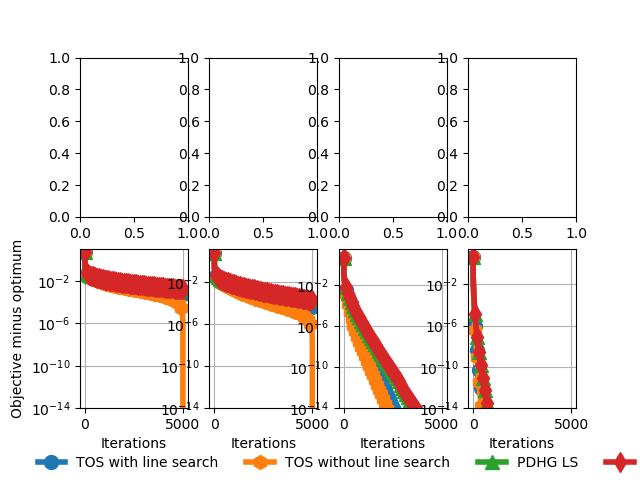
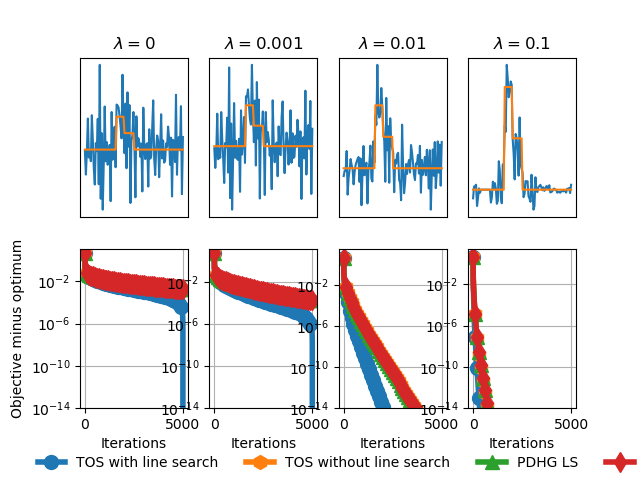
update doc

diff --git a/searchindex.js b/searchindex.js
@@ -1,1 +1,1 @@
-Search.setIndex({docnames:["auto_examples/index","auto_examples/plot_accelerated","auto_examples/plot_group_lasso","auto_examples/plot_overlapping_group_lasso","auto_examples/plot_sparse_nuclear_norm","auto_examples/plot_tv_deblurring","datasets","generated/copt.datasets.load_covtype","generated/copt.datasets.load_img1","generated/copt.datasets.load_rcv1","generated/copt.datasets.load_url","generated/copt.minimize_APGD","generated/copt.minimize_PGD","generated/copt.minimize_SAGALP_L1","generated/copt.minimize_TOS","generated/copt.utils.LogLoss","generated/copt.utils.SquareLoss","gradient","incremental","index","loss_functions","notes"],envversion:53,filenames:["auto_examples/index.rst","auto_examples/plot_accelerated.rst","auto_examples/plot_group_lasso.rst","auto_examples/plot_overlapping_group_lasso.rst","auto_examples/plot_sparse_nuclear_norm.rst","auto_examples/plot_tv_deblurring.rst","datasets.rst","generated/copt.datasets.load_covtype.rst","generated/copt.datasets.load_img1.rst","generated/copt.datasets.load_rcv1.rst","generated/copt.datasets.load_url.rst","generated/copt.minimize_APGD.rst","generated/copt.minimize_PGD.rst","generated/copt.minimize_SAGALP_L1.rst","generated/copt.minimize_TOS.rst","generated/copt.utils.LogLoss.rst","generated/copt.utils.SquareLoss.rst","gradient.rst","incremental.rst","index.rst","loss_functions.rst","notes.rst"],objects:{"copt.datasets":{load_covtype:[7,0,1,""],load_img1:[8,0,1,""],load_rcv1:[9,0,1,""],load_url:[10,0,1,""]},"copt.utils":{LogLoss:[15,1,1,""],SquareLoss:[16,1,1,""]},"copt.utils.LogLoss":{__init__:[15,2,1,""]},"copt.utils.SquareLoss":{__init__:[16,2,1,""]},copt:{minimize_APGD:[11,0,1,""],minimize_PGD:[12,0,1,""],minimize_SAGALP_L1:[13,0,1,""],minimize_TOS:[14,0,1,""]}},objnames:{"0":["py","function","Python function"],"1":["py","class","Python class"],"2":["py","method","Python method"]},objtypes:{"0":"py:function","1":"py:class","2":"py:method"},terms:{"35th":14,"boolean":[11,12,13,14],"break":13,"class":[15,16],"float":[5,11,12,13,14],"function":[1,2,11,12,13,14,15,21],"import":[1,2,3,4,5,11,12,13,14],"int":[4,11,12,13,14],"return":[2,3,4,5,7,9,10,11,12,13,14],"true":[2,3,4,5,9,10,11,12,13,14],But:21,TOS:[3,4,5],The:[2,11,12,13,14,21],These:19,__doc__:4,__init__:[15,16],a_i:13,abs:[4,5,14],acceler:[0,11,19],access:[11,12],achiev:[2,3,4],adapt:14,advanc:13,algorithm:[11,12,13,14],all:0,all_beta:[2,3,4,5],all_trace_l:[2,3,4,5],all_trace_ls_tim:[2,3,4,5],all_trace_nol:[2,3,4,5],all_trace_nols_tim:[2,3,4,5],all_trace_pdhg:[2,3,4,5],all_trace_pdhg_nol:[2,3,4],all_trace_pdhg_nols_tim:[2,3,4],all_trace_pdhg_tim:[2,3,4,5],allow:21,alpha:[11,13,14,15,16],alreadi:20,also:21,amir:[11,12],analysi:14,append:[2,3,4,5],applic:[11,12,14],arang:[2,3],arg:14,argmin_:13,argument:14,arrai:[1,2,3,4,5,7,9,10,11,12,13,14],art:19,arxiv:14,astyp:[4,5],attribut:[11,12,13,14],augment:13,auto_examples_jupyt:0,auto_examples_python:0,averag:13,axi:5,b_i:13,backtrack:[11,12,14],backtracking_factor:[11,12,14],barrier:13,base:[11,12,19],bbox_to_anchor:[2,3,4,5],beck:[11,12],below:13,beta:[2,3,4,5,13],binari:[7,9,10],blck:4,block:4,blur:5,blur_matrix:5,bold:1,bool:[7,9,10,13],bottom:[2,3,4,5],callabl:[11,12,14],callback:[1,2,3,4,5,11,12,13,14],can:[13,14,21],categor:[19,21],caus:[11,12,13,14],cb_apgd:1,cb_pdhg:[3,5],cb_pdhg_nol:3,cb_pgd:1,cb_to:[2,3,4],cb_tosl:[2,3,4,5],check:[7,9,10],cjlin:[7,9,10],classif:[7,9,10],cmap:[4,5],code:[0,1,2,3,4,5],commun:[11,12],comparison:[1,2,3,5],composit:13,comput:[2,3,4,5,15,21],confer:14,construct:[1,2],contain:19,conveni:20,converg:[1,13],convex:[11,12],copi:3,copt:[1,2,3,4,5],cov:4,criterion:13,csie:[7,9,10],csr:[7,9,10],damek:14,data:[2,3,4,5,13],dataset:[1,3],davi:14,debug:13,def:[2,3,4,5],defin:20,densiti:2,depend:19,deploy:19,descent:[0,11,12,19],describ:[11,12,13,14],descript:[11,12,13,14],diff:5,differ:[2,3,4,5,19],differenti:11,doi:14,dot:[2,3,4,5],download:[0,1,2,3,4,5,7,9,10],dual:21,each:[11,12,14],easi:19,edg:19,edu:[7,9,10],effect:0,emphasi:19,enter:2,enumer:[2,3,4,5],epsilon:4,estim:[0,13,14],evalu:1,exit:[11,12,13,14],expect:19,express:21,extens:21,extra:[13,14],eye:4,f_deriv:13,f_grad:[2,5,11,12,14],f_prime:14,fabian:[13,14],face:5,fals:[1,2,3,4,5],featur:[2,4,5],fenchel:21,few:19,fig:[2,3],figlegend:[2,3,4,5],file:[7,9,10],finit:21,flag:[11,12,13,14],fmin:[1,2,3,4,5],follow:20,fontweight:1,form:[11,12,13,14],formula:21,found:[7,9,10],frameon:[2,3,4,5],from:[2,3,4,5,11,12,13,14],full:[1,9],fun:14,fun_deriv:14,func_grad:[1,2,3,4,5],g_prox:[5,11,12,14],g_prox_arg:14,galleri:[0,1,2,3,4,5],gaussian_filt:5,gauthier:14,gcf:[2,3,4,5],gener:[0,1,2,3,4,5,13,19],get_lipschitz:[1,2,3,4,5],gidel:14,given:13,gradient:[0,3,5,11,12,13,14,19],grai:5,gray_r:4,grid:[1,2,3,4,5],ground:2,ground_truth:[2,3],group:0,groupl1:[2,3],groups1:3,groups2:3,guess:[11,12,14],h_lipschitz:[3,4,5,14],h_prox:[5,14],has:21,have:[11,12,13],hing:21,howev:20,html:[7,9,10],http:[7,9,10,14],huberloss:4,ident:15,imag:[5,8],img:5,implement:[2,19],improv:1,imres:5,imshow:[4,5],increment:19,indic:[11,12,13,14],inform:13,initi:[11,12,14],intern:14,interpol:[4,5],ipynb:[1,2,3,4,5],iter:[2,3,4,5,11,12,14],its:[2,14,19],julien:13,jupyt:[0,1,2,3,4,5],known:14,l1norm:4,label:[1,7,9,10],lacost:13,lambda:[2,3,4,5],languag:21,larg:19,lasso:0,learn:14,least:3,leblond:13,legend:1,len:4,level:[11,12,13,14],librari:19,libsvm:[7,9,10],libsvmtool:[7,9,10],like:[11,12,14],linalg:[2,3,4,5],line:[2,3,4,5,11,12,14],line_search:[1,2,3,4,11,12,14],load:8,load_npz:5,loc:[2,3,4,5],log:[1,2,3,4,5],logist:[1,15,21],logloss:1,loss:[2,3,4,5,11,13,15,21],low:0,machin:14,map:13,marc:[11,12],marker:[2,3,4,5],markers:[2,3,4,5],markeveri:[2,3,4,5],mathemat:19,matrix:[0,7,9,10],max:5,max_it:[2,3,4,5,11,12,13,14],max_iter_backtrack:[11,12,14],maximum:[11,12,13,14],maxit:[2,4,5],md5:[7,9,10],md5_check:[7,9,10],member:13,messag:[11,12,13,14],method:[13,14,15,16,19],might:13,min:[1,2,3,4,5],minimize_apgd:1,minimize_pdhg:[3,5],minimize_pgd:[1,2],minimize_to:[3,4,5],minimize_x:[11,12,14],minu:[2,3,4,5],minut:[1,2,3,4,5],misc:5,modular:19,much:[],multipli:4,multivariate_norm:4,n_col:[5,8],n_featur:[1,2,3,4,5],n_row:[5,8],n_sampl:[1,2,3,4,5,13],ncol:[2,3,4,5],ndarrai:13,ndimag:5,nearest:[4,5],neural:13,nip:13,noisi:5,non:14,none:[2,3,4,5,11,12,13,14],nonsmooth:13,nonzero:2,norm:13,notebook:[0,1,2,3,4,5],npz:5,ntu:[7,9,10],nuclearnorm:4,number:[11,12,13,14],numer:15,numpi:[1,2,3,4,5,7,9,10],object:[2,3,4,5,11,12,13,14],onli:[7,9,10],oper:[2,11,12,14,19],opt:[13,19],optim:[1,2,11,12,13,14],optimizeresult:[11,12,13,14],optimum:[2,3,4,5],option:[11,12,13,14],org:14,other:[11,12,13,14],out:[2,3,4,5],out_img:[2,3,4,5],output:[11,12,14],overlap:0,own:20,parallel:13,paramet:[2,3,4,5,7,9,10,11,12,13,14],pass:[13,14],pdhg:[3,5],pdhg_nol:[3,5],pedregosa:[13,14],penalti:[11,12],perform:[11,12,14,19],pgd:2,pgd_l:2,plot:[1,2,3,4,5,13],plot_acceler:1,plot_group_lasso:2,plot_nol:[2,3,4],plot_overlapping_group_lasso:3,plot_pdhg:[2,3,5],plot_pdhg_nol:[2,3],plot_sparse_nuclear_norm:4,plot_to:[2,3,4,5],plot_tv_deblur:5,plt:[1,2,3,4,5],point:13,possibl:[14,20],preprint:[],print:[2,3,4,5,13],problem:[1,2,11,12,13,14],procedur:[11,12,14],proceed:14,process:[11,12,13],progress:19,project:[7,9,10],prox:[2,3,4],prox_tv1d_col:5,prox_tv1d_row:5,proxim:[2,11,12,14,19,21],pure:19,purpos:19,pylab:[1,2,3,4,5],python:[0,1,2,3,4,5,19],rand:[1,2,4],randn:[1,2,3,4,5],random:[1,2,3,4,5],rang:[2,3,4],rank:0,ravel:[4,5],rcv1:9,readi:20,recoveri:[11,12],refer:[11,12,13,14],regress:1,regular:[0,3,4],rel:[2,3,4],remi:13,repres:[11,12,13,14],res:[11,12,14],reshap:[4,5],result:[1,2,3,4,5,11,12,13,14],result_apgd:1,result_pgd:1,return_singular_vector:[2,3,4,5],rough:19,run:[1,2,3,4,5],s11228:14,saga:[13,19],sampl:8,scalabl:13,scale:[2,3,5,19],scatterpoint:[2,3,4,5],scheme:14,scipi:[2,3,4,5,7,9,10,11,12,13,14],script:[1,2,3,4,5],search:[2,3,4,5,11,12,14],second:[1,2,3,4,5],see:[11,12,13,14],seed:[1,2,3,4,5],set:14,set_titl:[2,3,4,5],set_xlabel:[2,3,4,5],set_xlim:[4,5],set_xtick:[2,3,4,5],set_ylabel:[2,3,4,5],set_ylim:[2,3,4,5],set_yscal:[2,3,4,5],set_ytick:[2,3,4,5],shape:[4,5],sharei:[2,3,4,5],show:[1,2,3,4,5],showcas:1,sigma:[2,3,4],sigma_2:4,sigma_hat:4,sigmoid:15,signal:[11,12],simon:13,size:[2,3,4,5,13,14],sklearn:3,smooth:[14,20,21],solut:[11,12,13,14],solv:[11,12,13,14],solver:[2,3,4,5],some:[2,3,4,13,19],sourc:[0,1,2,3,4,5,7,8,9,10,11,12,13,14,15,16],spars:[0,2,3,5,7,9,10],sphinx:[0,1,2,3,4,5],splinalg:[2,3,4,5],split:[14,19],sqrt:3,squar:[2,3,4,5],squareloss:[2,3,5],stabl:15,start:[11,12,13,14],state:19,step:[2,3,4,5,13,14],step_siz:[1,2,3,4,5,11,12,13,14],step_size2:[3,5],stochast:13,stop:13,suboptim:1,subplot:[2,3,4,5],subplots_adjust:[2,3,4,5],subset:9,success:[11,12,13,14],successfulli:[11,12,13,14],sum:[5,21],sum_:13,svd:[2,3,4,5],symbol:21,synthet:4,system:13,take:[7,9,10],teboul:[11,12],term:12,termin:[11,12,13,14],thi:[7,9,10,13,14,19],three:[14,19],threshold:4,through:[2,13],time:[1,2,3,4,5],titl:1,tmp1:5,tmp2:5,tol:[1,2,3,4,5,11,12,13,14],toler:[2,3,4,13],tos:[3,4],tos_l:[3,4,5],total:[0,1,2,3,4],trace:[1,2,3,4,5,13],trace_func:13,trace_func_apgd:1,trace_func_pgd:1,trace_l:[2,3,4,5],trace_nol:[2,3,4],trace_pdhg:[3,5],trace_pdhg_nol:3,trace_tim:[2,3,4,5,13],trace_x:[1,2,3,4,5],truth:2,tv_prox:5,type:[11,12,13,14],url:[7,10],use:[15,20],useful:13,util:[1,2,3,4,5],valu:[2,3,4,5,7,9,10,11,12,14],variant:[13,19],variat:[0,14],vector:2,verbos:[2,3,4,5,11,12,13,14],version:[7,9,10],whenev:13,where:[11,12,14,15],whether:[7,9,10,11,12,13,14],which:[2,11,12,13,14,21],without:[2,3,4,5],work:19,wotao:14,written:19,www:[7,9,10],xlabel:1,xlim:[1,2,3,4,5],xxx:[11,12],yet:[],yin:14,ylabel:1,ylim:1,ymin:1,your:20,yscale:1,zero:[1,2,3,4,5],zip:0},titles:["Examples","Effect of acceleration in gradient descent","Group Lasso regularization","Group lasso with overlap","Estimating a sparse and low rank matrix","Total variation regularization","Datasets","copt.datasets.load_covtype","copt.datasets.load_img1","copt.datasets.load_rcv1","copt.datasets.load_url","copt.minimize_APGD","copt.minimize_PGD","copt.minimize_SAGALP_L1","copt.minimize_TOS","copt.utils.LogLoss","copt.utils.SquareLoss","Gradient-based methods","Incremental methods","Welcome to copt!","Loss functions","&lt;no title&gt;"],titleterms:{"function":20,acceler:1,algorithm:19,base:17,copt:[7,8,9,10,11,12,13,14,15,16,19],dataset:[6,7,8,9,10],descent:1,effect:1,estim:4,exampl:0,gradient:[1,17],group:[2,3],increment:18,lasso:[2,3],load_covtyp:7,load_img1:8,load_rcv1:9,load_url:10,logloss:15,loss:20,low:4,matrix:4,method:[17,18],minimize_apgd:11,minimize_pgd:12,minimize_sagalp_l1:13,minimize_to:14,optim:19,overlap:3,philosophi:19,rank:4,regular:[2,5],spars:4,squareloss:16,total:5,util:[15,16],variat:5,welcom:19}})
+Search.setIndex({docnames:["auto_examples/index","auto_examples/plot_accelerated","auto_examples/plot_group_lasso","auto_examples/plot_overlapping_group_lasso","auto_examples/plot_sparse_nuclear_norm","auto_examples/plot_tv_deblurring","datasets","generated/copt.datasets.load_covtype","generated/copt.datasets.load_img1","generated/copt.datasets.load_rcv1","generated/copt.datasets.load_url","generated/copt.minimize_APGD","generated/copt.minimize_PGD","generated/copt.minimize_SAGALP_L1","generated/copt.minimize_TOS","generated/copt.utils.LogLoss","generated/copt.utils.SquareLoss","gradient","incremental","index","loss_functions","notes"],envversion:53,filenames:["auto_examples/index.rst","auto_examples/plot_accelerated.rst","auto_examples/plot_group_lasso.rst","auto_examples/plot_overlapping_group_lasso.rst","auto_examples/plot_sparse_nuclear_norm.rst","auto_examples/plot_tv_deblurring.rst","datasets.rst","generated/copt.datasets.load_covtype.rst","generated/copt.datasets.load_img1.rst","generated/copt.datasets.load_rcv1.rst","generated/copt.datasets.load_url.rst","generated/copt.minimize_APGD.rst","generated/copt.minimize_PGD.rst","generated/copt.minimize_SAGALP_L1.rst","generated/copt.minimize_TOS.rst","generated/copt.utils.LogLoss.rst","generated/copt.utils.SquareLoss.rst","gradient.rst","incremental.rst","index.rst","loss_functions.rst","notes.rst"],objects:{"copt.datasets":{load_covtype:[7,0,1,""],load_img1:[8,0,1,""],load_rcv1:[9,0,1,""],load_url:[10,0,1,""]},"copt.utils":{LogLoss:[15,1,1,""],SquareLoss:[16,1,1,""]},"copt.utils.LogLoss":{__init__:[15,2,1,""]},"copt.utils.SquareLoss":{__init__:[16,2,1,""]},copt:{minimize_APGD:[11,0,1,""],minimize_PGD:[12,0,1,""],minimize_SAGALP_L1:[13,0,1,""],minimize_TOS:[14,0,1,""]}},objnames:{"0":["py","function","Python function"],"1":["py","class","Python class"],"2":["py","method","Python method"]},objtypes:{"0":"py:function","1":"py:class","2":"py:method"},terms:{"35th":14,"boolean":[11,12,13,14],"break":13,"class":[15,16],"float":[5,11,12,13,14],"function":[1,2,11,12,13,14,15,21],"import":[1,2,3,4,5,11,12,13,14],"int":[4,11,12,13,14],"return":[2,3,4,5,7,9,10,11,12,13,14],"true":[2,3,4,5,9,10,11,12,13,14],But:21,TOS:[3,4,5],The:[2,11,12,13,14,21],These:19,__doc__:4,__init__:[15,16],a_i:13,abs:[4,5],acceler:[0,11,19],access:[11,12],achiev:[2,3,4],adapt:14,advanc:13,algorithm:[11,12,13,14],all:0,all_beta:[2,3,4,5],all_trace_l:[2,3,4,5],all_trace_ls_tim:[2,3,4,5],all_trace_nol:[2,3,4,5],all_trace_nols_tim:[2,3,4,5],all_trace_pdhg:[2,3,4,5],all_trace_pdhg_nol:[2,3,4],all_trace_pdhg_nols_tim:[2,3,4],all_trace_pdhg_tim:[2,3,4,5],allow:21,alpha:[11,13,14,15,16],alreadi:20,also:21,amir:[11,12],analysi:14,append:[2,3,4,5],applic:[11,12,14],arang:[2,3],arg:14,argmin_:13,argument:14,arrai:[1,2,3,4,5,7,9,10,11,12,13,14],art:19,arxiv:[],astyp:[4,5],attribut:[11,12,13,14],augment:13,auto_examples_jupyt:0,auto_examples_python:0,averag:13,axi:5,b_i:13,backtrack:[11,12,14],backtracking_factor:[11,12,14],barrier:13,base:[11,12,19],bbox_to_anchor:[2,3,4,5],beck:[11,12],below:13,beta:[2,3,4,5,13],binari:[7,9,10],blck:4,block:4,blur:5,blur_matrix:5,bold:1,bool:[7,9,10,13],bottom:[2,3,4,5],callabl:[11,12,14],callback:[1,2,3,4,5,11,12,13,14],can:[13,14,21],categor:[19,21],caus:[11,12,13,14],cb_apgd:1,cb_pdhg:[3,5],cb_pdhg_nol:3,cb_pgd:1,cb_to:[2,3,4],cb_tosl:[2,3,4,5],check:[7,9,10],cjlin:[7,9,10],classif:[7,9,10],cmap:[4,5],code:[0,1,2,3,4,5],commun:[11,12],comparison:[1,2,3,5],composit:13,comput:[2,3,4,5,15,21],confer:14,construct:[1,2],contain:19,conveni:20,converg:[1,13],convex:[11,12],copi:3,copt:[1,2,3,4,5],cov:4,criterion:13,csie:[7,9,10],csr:[7,9,10],damek:14,data:[2,3,4,5,13],dataset:[1,3],davi:14,debug:13,def:[2,3,4,5],defin:20,densiti:2,depend:19,deploy:19,descent:[0,11,12,19],describ:[11,12,13,14],descript:[11,12,13,14],diff:5,differ:[2,3,4,5,19],differenti:11,doi:[],dot:[2,3,4,5],download:[0,1,2,3,4,5,7,9,10],dual:21,each:[11,12,14],easi:19,edg:19,edu:[7,9,10],effect:0,emphasi:19,enter:2,enumer:[2,3,4,5],epsilon:4,estim:[0,13,14],evalu:1,exit:[11,12,13,14],expect:19,express:21,extens:21,extra:[13,14],eye:4,f_deriv:13,f_grad:[2,5,11,12,14],f_prime:14,fabian:[13,14],face:5,fals:[1,2,3,4,5],featur:[2,4,5],fenchel:21,few:19,fig:[2,3],figlegend:[2,3,4,5],file:[7,9,10],finit:21,flag:[11,12,13,14],fmin:[1,2,3,4,5],follow:20,fontweight:1,form:[11,12,13,14],formula:21,found:[7,9,10],frameon:[2,3,4,5],from:[2,3,4,5,11,12,13,14],full:[1,9],fun:14,fun_deriv:14,func_grad:[1,2,3,4,5],g_prox:[5,11,12,14],g_prox_arg:14,galleri:[0,1,2,3,4,5],gaussian_filt:5,gauthier:14,gcf:[2,3,4,5],gener:[0,1,2,3,4,5,13,19],get_lipschitz:[1,2,3,4,5],gidel:14,given:13,gradient:[0,3,5,11,12,13,14,19],grai:5,gray_r:4,grid:[1,2,3,4,5],ground:2,ground_truth:[2,3],group:0,groupl1:[2,3],groups1:3,groups2:3,guess:[11,12,14],h_lipschitz:[3,4,5,14],h_prox:[5,14],has:21,have:[11,12,13],hing:21,howev:20,html:[7,9,10],http:[7,9,10],huberloss:4,ident:15,imag:[5,8],img:5,implement:[2,19],improv:1,imres:5,imshow:[4,5],increment:19,indic:[11,12,13,14],inform:13,initi:[11,12,14],intern:14,interpol:[4,5],ipynb:[1,2,3,4,5],iter:[2,3,4,5,11,12,14],its:[2,14,19],julien:13,jupyt:[0,1,2,3,4,5],known:14,l1norm:4,label:[1,7,9,10],lacost:13,lambda:[2,3,4,5],languag:21,larg:19,lasso:0,learn:14,least:3,leblond:13,legend:1,len:4,level:[11,12,13,14],librari:19,libsvm:[7,9,10],libsvmtool:[7,9,10],like:[11,12,14],linalg:[2,3,4,5],line:[2,3,4,5,11,12,14],line_search:[1,2,3,4,11,12,14],load:8,load_npz:5,loc:[2,3,4,5],log:[1,2,3,4,5],logist:[1,15,21],logloss:1,loss:[2,3,4,5,11,13,15,21],low:0,machin:14,map:13,marc:[11,12],marker:[2,3,4,5],markers:[2,3,4,5],markeveri:[2,3,4,5],mathemat:19,matrix:[0,7,9,10],max:5,max_it:[2,3,4,5,11,12,13,14],max_iter_backtrack:[11,12,14],maximum:[11,12,13,14],maxit:[2,4,5],md5:[7,9,10],md5_check:[7,9,10],member:13,messag:[11,12,13,14],method:[13,14,15,16,19],might:13,min:[1,2,3,4,5],minimize_apgd:1,minimize_pdhg:[3,5],minimize_pgd:[1,2],minimize_to:[3,4,5],minimize_x:[11,12,14],minu:[2,3,4,5],minut:[1,2,3,4,5],misc:5,modular:19,much:[],multipli:4,multivariate_norm:4,n_col:[5,8],n_featur:[1,2,3,4,5],n_row:[5,8],n_sampl:[1,2,3,4,5,13],ncol:[2,3,4,5],ndarrai:13,ndimag:5,nearest:[4,5],neural:13,nip:13,noisi:5,non:14,none:[2,3,4,5,11,12,13,14],nonsmooth:13,nonzero:2,norm:13,notebook:[0,1,2,3,4,5],npz:5,ntu:[7,9,10],nuclearnorm:4,number:[11,12,13,14],numer:15,numpi:[1,2,3,4,5,7,9,10],object:[2,3,4,5,11,12,13,14],onli:[7,9,10],oper:[2,11,12,14,19],opt:[13,19],optim:[1,2,11,12,13,14],optimizeresult:[11,12,13,14],optimum:[2,3,4,5],option:[11,12,13,14],org:[],other:[11,12,13,14],out:[2,3,4,5],out_img:[2,3,4,5],output:[11,12,14],overlap:0,own:20,parallel:13,paramet:[2,3,4,5,7,9,10,11,12,13,14],pass:[13,14],pdhg:[3,5],pdhg_nol:[3,5],pedregosa:[13,14],penalti:[11,12],perform:[11,12,14,19],pgd:2,pgd_l:2,plot:[1,2,3,4,5,13],plot_acceler:1,plot_group_lasso:2,plot_nol:[2,3,4],plot_overlapping_group_lasso:3,plot_pdhg:[2,3,5],plot_pdhg_nol:[2,3],plot_sparse_nuclear_norm:4,plot_to:[2,3,4,5],plot_tv_deblur:5,plt:[1,2,3,4,5],point:13,possibl:[14,20],preprint:[],print:[2,3,4,5,13],problem:[1,2,11,12,13,14],procedur:[11,12,14],proceed:14,process:[11,12,13],progress:19,project:[7,9,10],prox:[2,3,4],prox_tv1d_col:5,prox_tv1d_row:5,proxim:[2,11,12,14,19,21],pure:19,purpos:19,pylab:[1,2,3,4,5],python:[0,1,2,3,4,5,19],rand:[1,2,4],randn:[1,2,3,4,5],random:[1,2,3,4,5],rang:[2,3,4],rank:0,ravel:[4,5],rcv1:9,readi:20,recoveri:[11,12],refer:[11,12,13,14],regress:1,regular:[0,3,4],rel:[2,3,4],remi:13,repres:[11,12,13,14],res:[11,12,14],reshap:[4,5],result:[1,2,3,4,5,11,12,13,14],result_apgd:1,result_pgd:1,return_singular_vector:[2,3,4,5],rough:19,run:[1,2,3,4,5],s11228:[],saga:[13,19],sampl:8,scalabl:13,scale:[2,3,5,19],scatterpoint:[2,3,4,5],scheme:14,scipi:[2,3,4,5,7,9,10,11,12,13,14],script:[1,2,3,4,5],search:[2,3,4,5,11,12,14],second:[1,2,3,4,5],see:[11,12,13,14],seed:[1,2,3,4,5],set:14,set_titl:[2,3,4,5],set_xlabel:[2,3,4,5],set_xlim:[4,5],set_xtick:[2,3,4,5],set_ylabel:[2,3,4,5],set_ylim:[2,3,4,5],set_yscal:[2,3,4,5],set_ytick:[2,3,4,5],shape:[4,5],sharei:[2,3,4,5],show:[1,2,3,4,5],showcas:1,sigma:[2,3,4],sigma_2:4,sigma_hat:4,sigmoid:15,signal:[11,12],simon:13,size:[2,3,4,5,13,14],sklearn:3,smooth:[14,20,21],solut:[11,12,13,14],solv:[11,12,13,14],solver:[2,3,4,5],some:[2,3,4,13,19],sourc:[0,1,2,3,4,5,7,8,9,10,11,12,13,14,15,16],spars:[0,2,3,5,7,9,10],sphinx:[0,1,2,3,4,5],splinalg:[2,3,4,5],split:[14,19],sqrt:3,squar:[2,3,4,5],squareloss:[2,3,5],stabl:15,start:[11,12,13,14],state:19,step:[2,3,4,5,13,14],step_siz:[1,2,3,4,5,11,12,13,14],step_size2:[3,5],stochast:13,stop:13,suboptim:1,subplot:[2,3,4,5],subplots_adjust:[2,3,4,5],subset:9,success:[11,12,13,14],successfulli:[11,12,13,14],sum:[5,21],sum_:13,svd:[2,3,4,5],symbol:21,synthet:4,system:13,take:[7,9,10],teboul:[11,12],term:12,termin:[11,12,13,14],thi:[7,9,10,13,14,19],three:[14,19],threshold:4,through:[2,13],time:[1,2,3,4,5],titl:1,tmp1:5,tmp2:5,tol:[1,2,3,4,5,11,12,13,14],toler:[2,3,4,13],tos:[3,4],tos_l:[3,4,5],total:[0,1,2,3,4],trace:[1,2,3,4,5,13],trace_func:13,trace_func_apgd:1,trace_func_pgd:1,trace_l:[2,3,4,5],trace_nol:[2,3,4],trace_pdhg:[3,5],trace_pdhg_nol:3,trace_tim:[2,3,4,5,13],trace_x:[1,2,3,4,5],truth:2,tv_prox:5,type:[11,12,13,14],url:[7,10],use:[15,20],useful:13,util:[1,2,3,4,5],valu:[2,3,4,5,7,9,10,11,12,14],variant:[13,19],variat:[0,14],vector:2,verbos:[2,3,4,5,11,12,13,14],version:[7,9,10],whenev:13,where:[11,12,14,15],whether:[7,9,10,11,12,13,14],which:[2,11,12,13,14,21],without:[2,3,4,5],work:19,wotao:14,written:19,www:[7,9,10],xlabel:1,xlim:[1,2,3,4,5],xxx:[11,12],yet:[],yin:14,ylabel:1,ylim:1,ymin:1,your:20,yscale:1,zero:[1,2,3,4,5],zip:0},titles:["Examples","Effect of acceleration in gradient descent","Group Lasso regularization","Group lasso with overlap","Estimating a sparse and low rank matrix","Total variation regularization","Datasets","copt.datasets.load_covtype","copt.datasets.load_img1","copt.datasets.load_rcv1","copt.datasets.load_url","copt.minimize_APGD","copt.minimize_PGD","copt.minimize_SAGALP_L1","copt.minimize_TOS","copt.utils.LogLoss","copt.utils.SquareLoss","Gradient-based methods","Incremental methods","Welcome to copt!","Loss functions","&lt;no title&gt;"],titleterms:{"function":20,acceler:1,algorithm:19,base:17,copt:[7,8,9,10,11,12,13,14,15,16,19],dataset:[6,7,8,9,10],descent:1,effect:1,estim:4,exampl:0,gradient:[1,17],group:[2,3],increment:18,lasso:[2,3],load_covtyp:7,load_img1:8,load_rcv1:9,load_url:10,logloss:15,loss:20,low:4,matrix:4,method:[17,18],minimize_apgd:11,minimize_pgd:12,minimize_sagalp_l1:13,minimize_to:14,optim:19,overlap:3,philosophi:19,rank:4,regular:[2,5],spars:4,squareloss:16,total:5,util:[15,16],variat:5,welcom:19}})

diff --git a/auto_examples/plot_overlapping_group_lasso.html b/auto_examples/plot_overlapping_group_lasso.html
@@ -47,14 +47,14 @@
 overlapping group lasso regularization.</p>
 <img alt="../_images/sphx_glr_plot_overlapping_group_lasso_001.png" class="align-center" src="../_images/sphx_glr_plot_overlapping_group_lasso_001.png" />
 <p class="sphx-glr-script-out">Out:</p>
-<div class="sphx-glr-script-out highlight-default"><div class="highlight"><pre><span></span><span class="mf">0.4012504714013977</span>
+<div class="sphx-glr-script-out highlight-default"><div class="highlight"><pre><span></span><span class="mf">0.40125047140139797</span>
 <span class="n">beta</span> <span class="o">=</span> <span class="mi">0</span>
 <span class="n">beta</span> <span class="o">=</span> <span class="mf">0.001</span>
 <span class="n">beta</span> <span class="o">=</span> <span class="mf">0.01</span>
-<span class="n">Achieved</span> <span class="n">relative</span> <span class="n">tolerance</span> <span class="n">at</span> <span class="n">iteration</span> <span class="mi">4833</span>
+<span class="n">Achieved</span> <span class="n">relative</span> <span class="n">tolerance</span> <span class="n">at</span> <span class="n">iteration</span> <span class="mi">4331</span>
 <span class="n">beta</span> <span class="o">=</span> <span class="mf">0.1</span>
-<span class="n">Achieved</span> <span class="n">relative</span> <span class="n">tolerance</span> <span class="n">at</span> <span class="n">iteration</span> <span class="mi">675</span>
-<span class="n">Achieved</span> <span class="n">relative</span> <span class="n">tolerance</span> <span class="n">at</span> <span class="n">iteration</span> <span class="mi">531</span>
+<span class="n">Achieved</span> <span class="n">relative</span> <span class="n">tolerance</span> <span class="n">at</span> <span class="n">iteration</span> <span class="mi">424</span>
+<span class="n">Achieved</span> <span class="n">relative</span> <span class="n">tolerance</span> <span class="n">at</span> <span class="n">iteration</span> <span class="mi">994</span>
 </pre></div>
 </div>
 <div class="line-block">
@@ -116,7 +116,7 @@ overlapping group lasso regularization.</p>
     <span class="n">tos_ls</span> <span class="o">=</span> <span class="n">cp</span><span class="o">.</span><span class="n">minimize_TOS</span><span class="p">(</span>
         <span class="n">f</span><span class="o">.</span><span class="n">func_grad</span><span class="p">,</span> <span class="n">x0</span><span class="p">,</span> <span class="n">G1</span><span class="o">.</span><span class="n">prox</span><span class="p">,</span> <span class="n">G2</span><span class="o">.</span><span class="n">prox</span><span class="p">,</span> <span class="n">step_size</span><span class="o">=</span><span class="mi">3</span> <span class="o">*</span> <span class="n">step_size</span><span class="p">,</span>
         <span class="n">max_iter</span><span class="o">=</span><span class="n">max_iter</span><span class="p">,</span> <span class="n">tol</span><span class="o">=</span><span class="mf">1e-14</span><span class="p">,</span> <span class="n">verbose</span><span class="o">=</span><span class="mi">1</span><span class="p">,</span>
-        <span class="n">callback</span><span class="o">=</span><span class="n">cb_tosls</span><span class="p">)</span>
+        <span class="n">callback</span><span class="o">=</span><span class="n">cb_tosls</span><span class="p">,</span> <span class="n">h_Lipschitz</span><span class="o">=</span><span class="n">beta</span><span class="p">)</span>
     <span class="n">trace_ls</span> <span class="o">=</span> <span class="n">np</span><span class="o">.</span><span class="n">array</span><span class="p">([</span><span class="n">loss</span><span class="p">(</span><span class="n">x</span><span class="p">)</span> <span class="k">for</span> <span class="n">x</span> <span class="ow">in</span> <span class="n">cb_tosls</span><span class="o">.</span><span class="n">trace_x</span><span class="p">])</span>
     <span class="n">all_trace_ls</span><span class="o">.</span><span class="n">append</span><span class="p">(</span><span class="n">trace_ls</span><span class="p">)</span>
     <span class="n">all_trace_ls_time</span><span class="o">.</span><span class="n">append</span><span class="p">(</span><span class="n">cb_tosls</span><span class="o">.</span><span class="n">trace_time</span><span class="p">)</span>
@@ -128,7 +128,7 @@ overlapping group lasso regularization.</p>
         <span class="n">f</span><span class="o">.</span><span class="n">func_grad</span><span class="p">,</span> <span class="n">x0</span><span class="p">,</span> <span class="n">G1</span><span class="o">.</span><span class="n">prox</span><span class="p">,</span> <span class="n">G2</span><span class="o">.</span><span class="n">prox</span><span class="p">,</span>
         <span class="n">step_size</span><span class="o">=</span><span class="n">step_size</span><span class="p">,</span>
         <span class="n">max_iter</span><span class="o">=</span><span class="n">max_iter</span><span class="p">,</span> <span class="n">tol</span><span class="o">=</span><span class="mf">1e-14</span><span class="p">,</span> <span class="n">verbose</span><span class="o">=</span><span class="mi">1</span><span class="p">,</span>
-        <span class="n">line_search</span><span class="o">=</span><span class="bp">True</span><span class="p">,</span> <span class="n">callback</span><span class="o">=</span><span class="n">cb_tos</span><span class="p">,</span> <span class="n">h_Lipschitz</span><span class="o">=</span><span class="n">beta</span><span class="p">)</span>
+        <span class="n">line_search</span><span class="o">=</span><span class="bp">True</span><span class="p">,</span> <span class="n">callback</span><span class="o">=</span><span class="n">cb_tos</span><span class="p">)</span>
     <span class="n">trace_nols</span> <span class="o">=</span> <span class="n">np</span><span class="o">.</span><span class="n">array</span><span class="p">([</span><span class="n">loss</span><span class="p">(</span><span class="n">x</span><span class="p">)</span> <span class="k">for</span> <span class="n">x</span> <span class="ow">in</span> <span class="n">cb_tos</span><span class="o">.</span><span class="n">trace_x</span><span class="p">])</span>
     <span class="n">all_trace_nols</span><span class="o">.</span><span class="n">append</span><span class="p">(</span><span class="n">trace_nols</span><span class="p">)</span>
     <span class="n">all_trace_nols_time</span><span class="o">.</span><span class="n">append</span><span class="p">(</span><span class="n">cb_tos</span><span class="o">.</span><span class="n">trace_time</span><span class="p">)</span>
@@ -163,12 +163,12 @@ overlapping group lasso regularization.</p>
 <span class="n">fig</span><span class="p">,</span> <span class="n">ax</span> <span class="o">=</span> <span class="n">plt</span><span class="o">.</span><span class="n">subplots</span><span class="p">(</span><span class="mi">2</span><span class="p">,</span> <span class="mi">4</span><span class="p">,</span> <span class="n">sharey</span><span class="o">=</span><span class="bp">False</span><span class="p">)</span>
 <span class="n">xlim</span> <span class="o">=</span> <span class="p">[</span><span class="mf">0.02</span><span class="p">,</span> <span class="mf">0.02</span><span class="p">,</span> <span class="mf">0.1</span><span class="p">]</span>
 <span class="k">for</span> <span class="n">i</span><span class="p">,</span> <span class="n">beta</span> <span class="ow">in</span> <span class="nb">enumerate</span><span class="p">(</span><span class="n">all_betas</span><span class="p">):</span>
-    <span class="c1"># ax[0, i].set_title(r&#39;$\lambda=%s$&#39; % beta)</span>
-    <span class="c1"># ax[0, i].set_title(r&#39;$\lambda=%s$&#39; % beta)</span>
-    <span class="c1"># ax[0, i].plot(out_img[i])</span>
-    <span class="c1"># ax[0, i].plot(ground_truth)</span>
-    <span class="c1"># ax[0, i].set_xticks(())</span>
-    <span class="c1"># ax[0, i].set_yticks(())</span>
+    <span class="n">ax</span><span class="p">[</span><span class="mi">0</span><span class="p">,</span> <span class="n">i</span><span class="p">]</span><span class="o">.</span><span class="n">set_title</span><span class="p">(</span><span class="sa">r</span><span class="s1">&#39;$\lambda=</span><span class="si">%s</span><span class="s1">$&#39;</span> <span class="o">%</span> <span class="n">beta</span><span class="p">)</span>
+    <span class="n">ax</span><span class="p">[</span><span class="mi">0</span><span class="p">,</span> <span class="n">i</span><span class="p">]</span><span class="o">.</span><span class="n">set_title</span><span class="p">(</span><span class="sa">r</span><span class="s1">&#39;$\lambda=</span><span class="si">%s</span><span class="s1">$&#39;</span> <span class="o">%</span> <span class="n">beta</span><span class="p">)</span>
+    <span class="n">ax</span><span class="p">[</span><span class="mi">0</span><span class="p">,</span> <span class="n">i</span><span class="p">]</span><span class="o">.</span><span class="n">plot</span><span class="p">(</span><span class="n">out_img</span><span class="p">[</span><span class="n">i</span><span class="p">])</span>
+    <span class="n">ax</span><span class="p">[</span><span class="mi">0</span><span class="p">,</span> <span class="n">i</span><span class="p">]</span><span class="o">.</span><span class="n">plot</span><span class="p">(</span><span class="n">ground_truth</span><span class="p">)</span>
+    <span class="n">ax</span><span class="p">[</span><span class="mi">0</span><span class="p">,</span> <span class="n">i</span><span class="p">]</span><span class="o">.</span><span class="n">set_xticks</span><span class="p">(())</span>
+    <span class="n">ax</span><span class="p">[</span><span class="mi">0</span><span class="p">,</span> <span class="n">i</span><span class="p">]</span><span class="o">.</span><span class="n">set_yticks</span><span class="p">(())</span>
 
     <span class="n">fmin</span> <span class="o">=</span> <span class="nb">min</span><span class="p">(</span><span class="n">np</span><span class="o">.</span><span class="n">min</span><span class="p">(</span><span class="n">all_trace_ls</span><span class="p">[</span><span class="n">i</span><span class="p">]),</span> <span class="n">np</span><span class="o">.</span><span class="n">min</span><span class="p">(</span><span class="n">all_trace_nols</span><span class="p">[</span><span class="n">i</span><span class="p">]))</span>
     <span class="n">scale</span> <span class="o">=</span> <span class="mf">1.</span> <span class="c1"># all_trace_ls[i][0] - fmin</span>
@@ -210,7 +210,7 @@ overlapping group lasso regularization.</p>
 <span class="n">plt</span><span class="o">.</span><span class="n">show</span><span class="p">()</span>
 </pre></div>
 </div>
-<p><strong>Total running time of the script:</strong> ( 0 minutes  21.480 seconds)</p>
+<p><strong>Total running time of the script:</strong> ( 0 minutes  27.469 seconds)</p>
 <div class="sphx-glr-footer docutils container">
 <div class="sphx-glr-download docutils container">
 <a class="reference download internal" href="../_downloads/plot_overlapping_group_lasso.py" download=""><code class="xref download docutils literal"><span class="pre">Download</span> <span class="pre">Python</span> <span class="pre">source</span> <span class="pre">code:</span> <span class="pre">plot_overlapping_group_lasso.py</span></code></a></div>

diff --git a/gradient.html b/gradient.html
@@ -110,6 +110,7 @@
 <li class="toctree-l2"><a class="reference internal" href="generated/copt.minimize_TOS.html">copt.minimize_TOS</a></li>
 </ul>
 </li>
+<li class="toctree-l1"><a class="reference internal" href="incremental.html">Incremental methods</a></li>
 <li class="toctree-l1"><a class="reference internal" href="loss_functions.html">Loss functions</a></li>
 <li class="toctree-l1"><a class="reference internal" href="datasets.html">Datasets</a></li>
 <li class="toctree-l1"><a class="reference internal" href="auto_examples/index.html">Examples</a></li>

diff --git a/_downloads/plot_overlapping_group_lasso.py b/_downloads/plot_overlapping_group_lasso.py
@@ -62,7 +62,7 @@ for i, beta in enumerate(all_betas):
     tos_ls = cp.minimize_TOS(
         f.func_grad, x0, G1.prox, G2.prox, step_size=3 * step_size,
         max_iter=max_iter, tol=1e-14, verbose=1,
-        callback=cb_tosls)
+        callback=cb_tosls, h_Lipschitz=beta)
     trace_ls = np.array([loss(x) for x in cb_tosls.trace_x])
     all_trace_ls.append(trace_ls)
     all_trace_ls_time.append(cb_tosls.trace_time)
@@ -74,7 +74,7 @@ for i, beta in enumerate(all_betas):
         f.func_grad, x0, G1.prox, G2.prox,
         step_size=step_size,
         max_iter=max_iter, tol=1e-14, verbose=1,
-        line_search=True, callback=cb_tos, h_Lipschitz=beta)
+        line_search=True, callback=cb_tos)
     trace_nols = np.array([loss(x) for x in cb_tos.trace_x])
     all_trace_nols.append(trace_nols)
     all_trace_nols_time.append(cb_tos.trace_time)
@@ -109,12 +109,12 @@ for i, beta in enumerate(all_betas):
 fig, ax = plt.subplots(2, 4, sharey=False)
 xlim = [0.02, 0.02, 0.1]
 for i, beta in enumerate(all_betas):
-    # ax[0, i].set_title(r'$\lambda=%s$' % beta)
-    # ax[0, i].set_title(r'$\lambda=%s$' % beta)
-    # ax[0, i].plot(out_img[i])
-    # ax[0, i].plot(ground_truth)
-    # ax[0, i].set_xticks(())
-    # ax[0, i].set_yticks(())
+    ax[0, i].set_title(r'$\lambda=%s$' % beta)
+    ax[0, i].set_title(r'$\lambda=%s$' % beta)
+    ax[0, i].plot(out_img[i])
+    ax[0, i].plot(ground_truth)
+    ax[0, i].set_xticks(())
+    ax[0, i].set_yticks(())
 
     fmin = min(np.min(all_trace_ls[i]), np.min(all_trace_nols[i]))
     scale = 1. # all_trace_ls[i][0] - fmin
